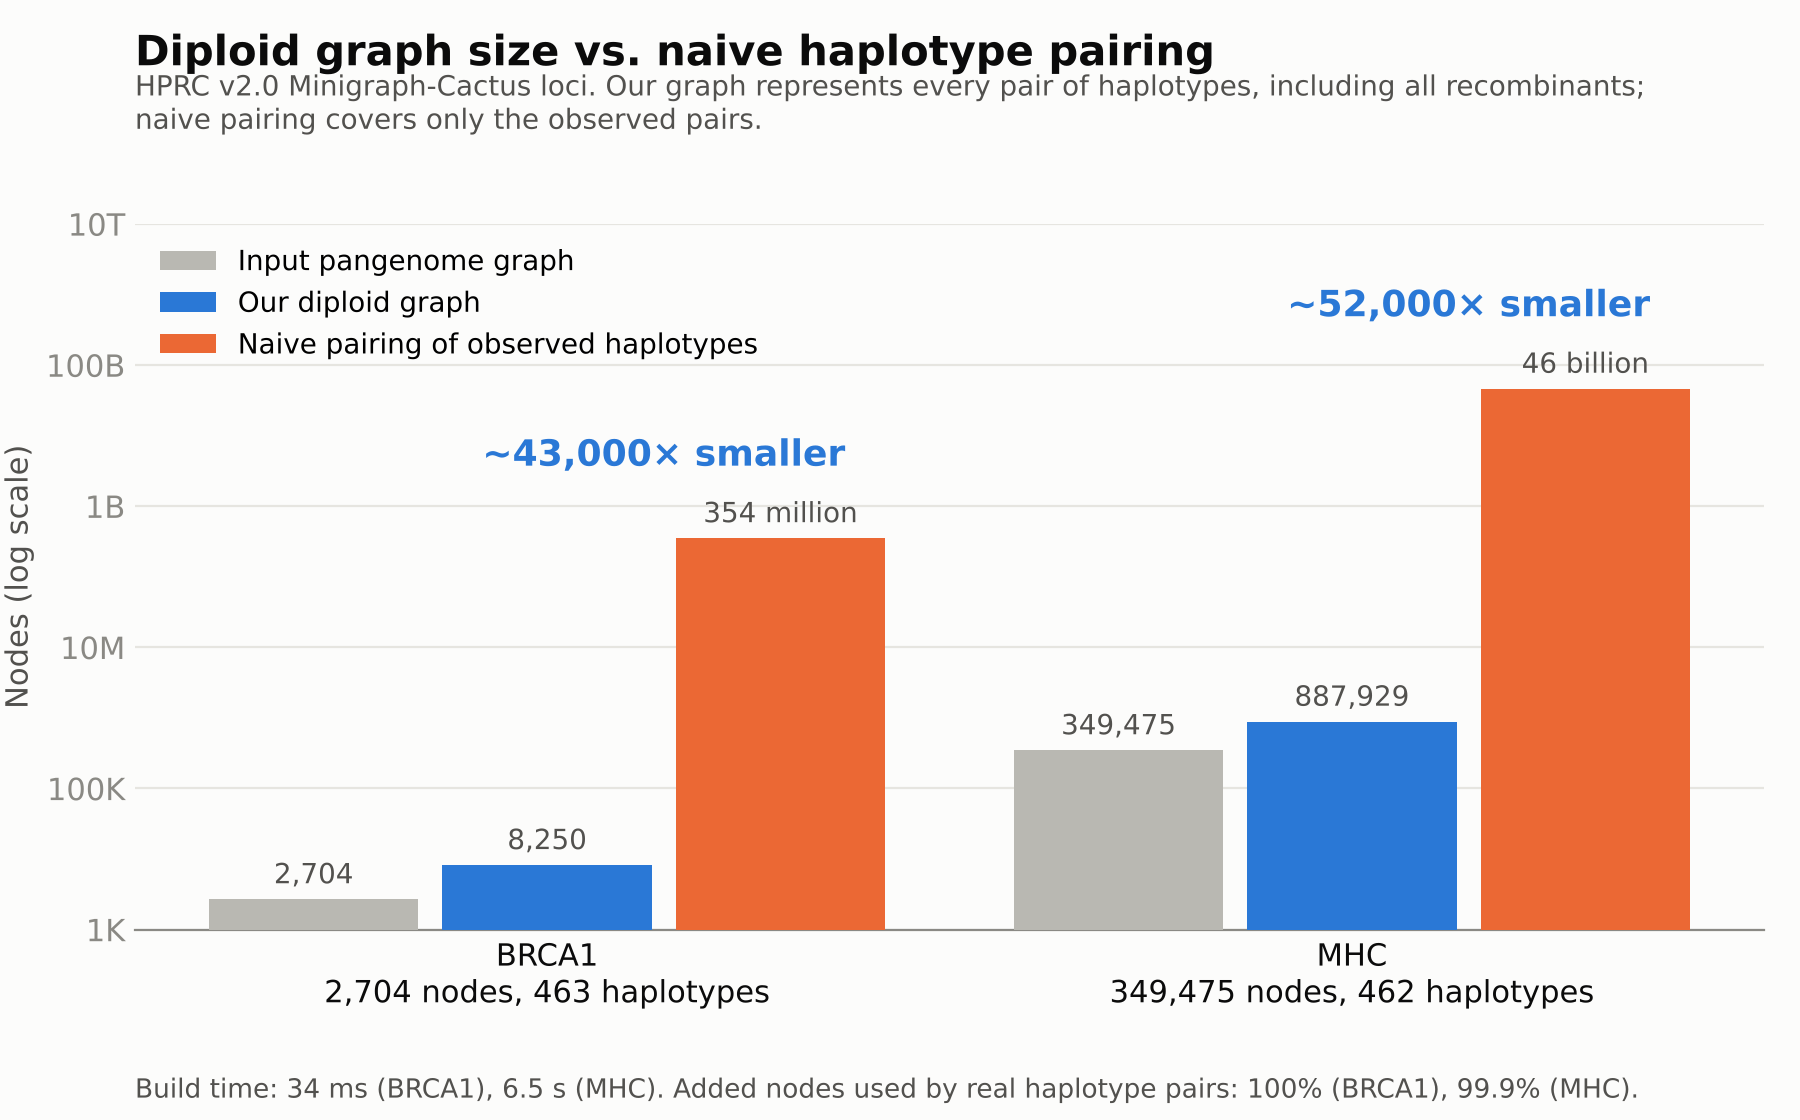
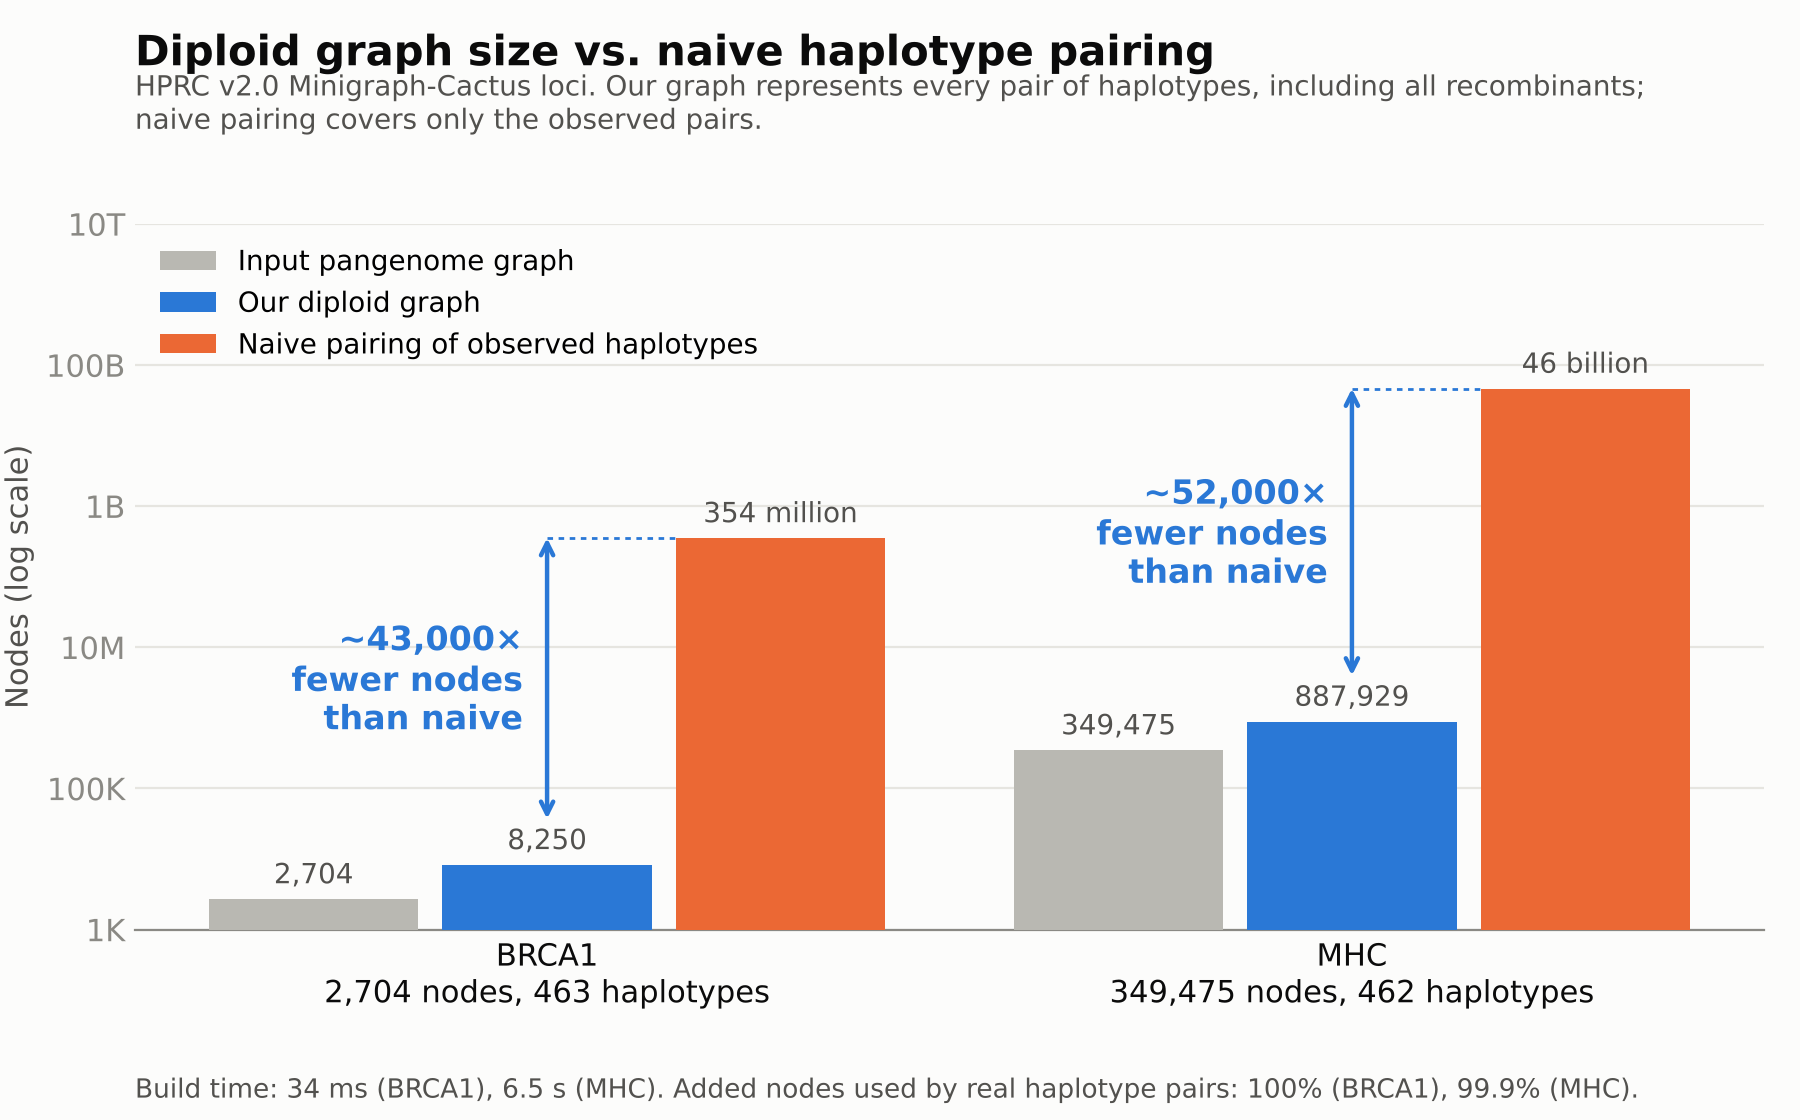
Figure: show the size ratio as an arrow from our graph to naive pairing

diff --git a/experiments/plot_real.py b/experiments/plot_real.py
@@ -60,9 +60,14 @@ def main() -> None:
     for i, l in enumerate(loci):
         d = data[l]
         ratio = d["naive_observed_nodes"] / d["diploid_nodes"]
-        x = i + (width + gap) / 2
-        ax.text(x, d["naive_observed_nodes"] * 8, f"~{round(ratio, -3):,.0f}\u00d7 smaller", ha="center",
-                va="bottom", fontsize=13, fontweight="bold", color=OURS)
+        x = i  # centre of "our diploid graph" bar
+        lo, hi = d["diploid_nodes"] * 4.5, d["naive_observed_nodes"]
+        ax.annotate("", xy=(x, hi), xytext=(x, lo), zorder=5,
+                    arrowprops=dict(arrowstyle="<->", color=OURS, lw=1.6, shrinkA=0, shrinkB=0))
+        ax.plot([x, x + width / 2 + gap], [hi, hi], color=OURS, lw=1, ls=(0, (2, 2)), zorder=5)
+        mid = (lo * hi) ** 0.5
+        ax.text(x - 0.03, mid, f"~{round(ratio, -3):,.0f}\u00d7\nfewer nodes\nthan naive", ha="right", va="center",
+                fontsize=12, fontweight="bold", color=OURS, zorder=5, linespacing=1.15)
 
     ax.set_yscale("log")
     ax.set_ylim(1e3, 1e13)
